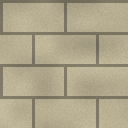
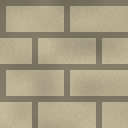
feat(geometry): the Thestra showcase room
The design document's definition of done: one room mixing composed planar
architecture, a front/back shell, a radial object and an OBJ prop, all reaching
the world through the same placement path.

- walls: limestone_wall as base geometry, with shrine_recess composed onto the
  cells that carry it
- floor: sacred_idol (front/back shell), fluted_pillar (radial), and
  dungeon_chest.obj -- unrestricted OBJ, proving coexistence

Fixtures are pinned to authored map zones at probability 1 rather than injected
by chance. A showcase is a deliberate composition; procedural rates put the
camera inside a pillar and left the room's contents up to the seed. This uses
the existing `where: {zone}` predicate, so it needed no new engine capability.

Two things the room taught, which is what a showcase is for:

- The wall's 3px mortar could not be resolved by its own 16x16 grid: joints
  fell between samples and aliased into steep dark facets, so the courses read
  as detached slabs floating off the wall. Joints are now 6px and shallower --
  the narrowest a 128px/16-grid asset can actually represent. This is the
  authoring friction the density warning exists to predict.

- The idol tore into floating fragments. The cause was an authoring error worth
  gating rather than remembering: coverage was painted into the ALBEDO alpha as
  well as the height alpha. The shader discards transparent texels, so boundary
  quads interpolating into them punched holes straight through the model.
[…]

Changed region(s): [[0.0, 0.0, 1.0, 1.0]]

diff --git a/tools/asset-gen/authorgeom.py b/tools/asset-gen/authorgeom.py
@@ -52,7 +52,11 @@ def limestone_wall():
     apx, hpx = [], []
     course = SIZE // 4          # four block courses
     block = SIZE // 2           # two blocks per course, alternating offset
-    mortar = 3
+    # Mortar must be wide enough for the declared mesh grid to resolve. At
+    # 16x16 over 128px each cell is 8px, so a 3px joint falls between samples
+    # and aliases into steep dark ramps that read as detached blocks. Six
+    # pixels is the narrowest joint this density can actually represent.
+    mortar = 6
 
     for y in range(SIZE):
         row = y // course
@@ -70,7 +74,10 @@ def limestone_wall():
             grain = noise(x, y, 4)
 
             if in_mortar:
-                depth = -0.55 - 0.20 * broad
+                # Shallow on purpose: a deep joint at this mesh density becomes
+                # a near-vertical facet whose normal faces away from every
+                # light, which reads as a gap rather than a recess.
+                depth = -0.30 - 0.10 * broad
                 tone = 0.44 + 0.10 * broad
             else:
                 # Each block gets its own slight set, so courses do not look
@@ -154,7 +161,13 @@ def sacred_idol():
             coverage, core = idol_silhouette(u, v)
 
             if coverage == 0.0:
-                apx.append((0, 0, 0, 0))
+                # Coverage lives in the HEIGHT alpha, which is what the
+                # compiler reads to decide the silhouette. The albedo stays
+                # OPAQUE outside it: the shader discards transparent texels,
+                # and a boundary quad interpolating into transparent albedo
+                # punches holes that tear the model apart. Colour outside the
+                # silhouette is simply never sampled.
+                apx.append((90, 86, 74, 255))
                 hpx.append((0, 0, 0, 0))
                 continue
 

diff --git a/docs/ENGINE-STATE.md b/docs/ENGINE-STATE.md
@@ -71,8 +71,8 @@ are what's left:
 - item-creation disciplines across the roster: alchemyx15, blacksmithingx15, cookingx18, tinkeringx17
 - items: **198** (consumablex63, equipmentx120, questx15)
 - skills: **44**, passives: **41**, states: **14**, roles: **13**, elements: **5**
-- maps: **8**, common events: **20**, shops: **8**, quests: **5**, lore entries: **3**
-- animations: **29**, tilesets: **9**
+- maps: **9**, common events: **20**, shops: **8**, quests: **5**, lore entries: **3**
+- animations: **29**, tilesets: **10**
 
 ## Notes for agents
 
